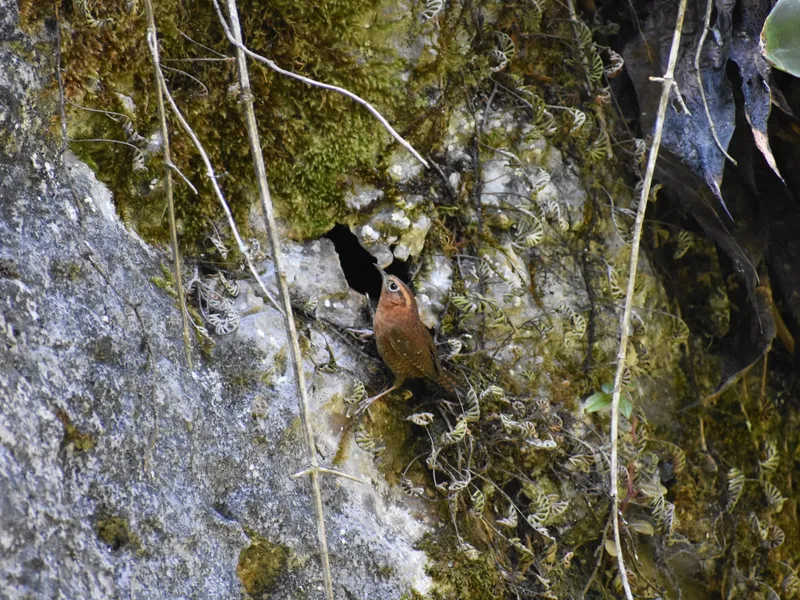
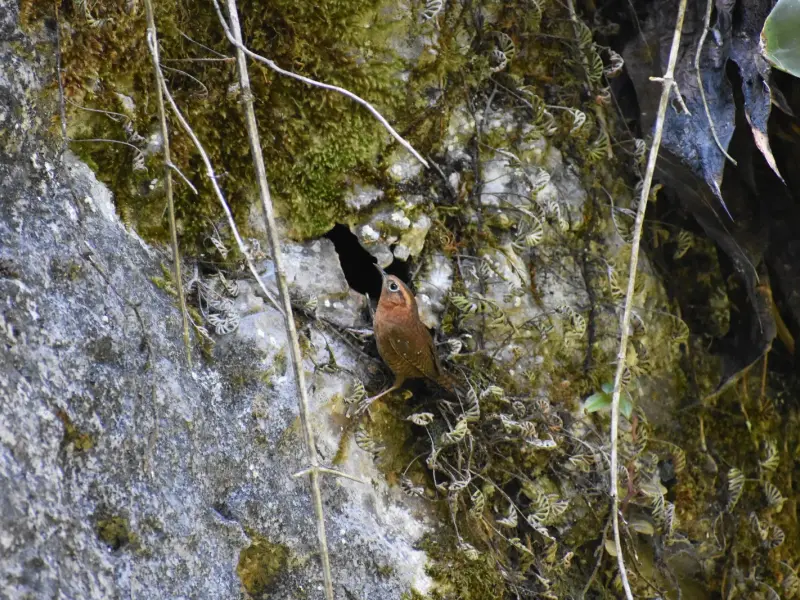
Stop the page moving when the fonts swap in
Self-hosting took the homepage from 73 to 88 and halved first paint, but it
introduced a layout shift: CLS went from 0 to 0.114. The cause is in the win.
`font-display: swap` paints text in a fallback the moment CSS lands and swaps
when the webfont arrives; the first paint is now fast enough that this happens
on screen rather than before it, and everything below the swapped text jumped.
PageSpeed named the culprits exactly — the hero buttons, then the stats band,
each attributed to a specific woff2.

Each webfont now has a metric-matched stand-in: same average character width,
same ascent and descent, so the swap changes the letterforms and nothing else.
Text still appears immediately, it just stops moving afterwards.

The size-adjust figures are calibrated against text widths measured in a
browser on real page copy rather than taken raw from the script. A lowercase
letter-frequency table left Lato 3% out once capitals, digits and punctuation
were in the sample — and overshooting is no better than undershooting, since
either way the line count can change.

The homepage logo is sized too. It was the other half of the largest shift:
unsized and lazy, so the caption under it moved when the file arrived.

Separately, 21 card and thumb crops are re-encoded, saving 440KB. Across 169 of
them the median is 0.082 bytes per pixel; these sat between 0.20 and 0.29 —
busy frames of cloud forest and dappled trail where the encoder spent freely.
[…]

diff --git a/src/lib/styles/global.css b/src/lib/styles/global.css
@@ -76,6 +76,53 @@
 	src: url('../fonts/jetbrains-mono-500.woff2') format('woff2');
 }
 
+/**
+ * Metric-matched stand-ins, generated by scripts/font-metrics.py.
+ *
+ * With `font-display: swap` the browser paints text in a fallback the instant
+ * CSS lands, then swaps when the webfont arrives. Self-hosting made the first
+ * paint fast enough that this began happening on screen rather than before it,
+ * and everything below the swapped text jumped: CLS went from 0 to 0.114.
+ *
+ * These rules make each stand-in a dimensional twin of the font it covers —
+ * same average character width, same ascent and descent — so the swap changes
+ * the shapes and nothing else. Text still appears immediately; it just stops
+ * moving afterwards.
+ *
+ * Arial's metrics are shared by Helvetica and Liberation Sans, so the one
+ * calculation holds on macOS and Linux as well as Windows.
+ *
+ * The size-adjust figures are calibrated against text widths measured in a
+ * browser on real page copy, not taken raw from the script: a lowercase
+ * letter-frequency table left Lato 3% out once capitals, digits and
+ * punctuation were in the sample. Re-measure if the body copy changes
+ * character noticeably.
+ */
+@font-face {
+	font-family: 'Newsreader Fallback';
+	src: local('Georgia');
+	size-adjust: 93.82%;
+	ascent-override: 78.35%;
+	descent-override: 28.24%;
+	line-gap-override: 0%;
+}
+@font-face {
+	font-family: 'Lato Fallback';
+	src: local('Arial');
+	size-adjust: 101.29%;
+	ascent-override: 97.44%;
+	descent-override: 21.02%;
+	line-gap-override: 0%;
+}
+@font-face {
+	font-family: 'JetBrains Mono Fallback';
+	src: local('Courier New');
+	size-adjust: 99.98%;
+	ascent-override: 102.02%;
+	descent-override: 30%;
+	line-gap-override: 0%;
+}
+
 /* Design tokens ported verbatim from the live cardellina.com build. */
 :root {
 	--ink: #16241f; /* cloud-forest shade, near-black green */
@@ -94,9 +141,9 @@
 	--lichen: #a8762f; /* endemic flag */
 	--rule: #d9ddd5;
 
-	--display: 'Newsreader', Georgia, serif;
-	--body: 'Lato', -apple-system, BlinkMacSystemFont, 'Segoe UI', sans-serif;
-	--mono: 'JetBrains Mono', ui-monospace, Menlo, monospace;
+	--display: 'Newsreader', 'Newsreader Fallback', Georgia, serif;
+	--body: 'Lato', 'Lato Fallback', -apple-system, BlinkMacSystemFont, 'Segoe UI', sans-serif;
+	--mono: 'JetBrains Mono', 'JetBrains Mono Fallback', ui-monospace, Menlo, monospace;
 
 	/* Height of the sticky site header. Anything else that sticks (the bird
 	   library's filter bar) offsets by this so it doesn't slide underneath. */

diff --git a/src/routes/+page.svelte b/src/routes/+page.svelte
@@ -279,9 +279,14 @@
 	<div class="wrap">
 		<div class="genus-grid">
 			<figure class="genus-mark">
+				<!-- Sized so the browser reserves the space before the file arrives.
+				     Without these the caption and everything under it jumped when the
+				     logo loaded, which was most of one of the layout shifts. -->
 				<img
 					src={asset('images/cardellina-logo-r-ouLe0QMSi7BFi1G9-thumb.webp')}
 					alt="The Cardellina Birding Tours logo: three Cardellina warblers"
+					width="420"
+					height="420"
 					loading="lazy"
 				/>
 				<figcaption>Red Warbler · Red-faced Warbler · Pink-headed Warbler</figcaption>

diff --git a/scripts/font-metrics.py b/scripts/font-metrics.py
@@ -1,0 +1,90 @@
+"""
+Computes @font-face override values so the fallback font occupies exactly the
+same space as the webfont it stands in for.
+
+Why this exists: with `font-display: swap` the browser paints text immediately
+in a fallback, then swaps when the real font arrives. If the two have different
+metrics, everything below the swapped text jumps — which is what took CLS from
+0 to 0.114 the moment the fonts became self-hosted and fast enough to paint
+before they landed.
+
+The overrides make the stand-in a dimensional twin of the real thing:
+
+  size-adjust        scales the fallback so its average character is the same
+                     width, which is what stops lines re-wrapping
+  ascent-override    fixes the space above the baseline
+  descent-override   the space below it
+  line-gap-override  the leading between lines
+
+Run: python scripts/font-metrics.py
+Then paste the printed rules into src/lib/styles/global.css.
+"""
+
+import sys
+from fontTools.ttLib import TTFont
+
+WIN = 'C:/Windows/Fonts/'
+
+# Each webfont, and the font actually standing in for it while it loads — which
+# must be the first entry in that stack's fallback list, or the numbers describe
+# a font nobody sees. Arial's metrics are shared by Helvetica and Liberation
+# Sans, so one calculation covers macOS and Linux too.
+PAIRS = [
+    ('Newsreader', 'src/lib/fonts/newsreader-400.woff2', WIN + 'georgia.ttf', 'Georgia'),
+    ('Lato', 'src/lib/fonts/lato-400.woff2', WIN + 'arial.ttf', 'Arial'),
+    ('JetBrains Mono', 'src/lib/fonts/jetbrains-mono-400.woff2', WIN + 'cour.ttf', 'Courier New'),
+]
+
+# Weighted by how often each letter appears in English, so the average width
+# reflects real prose rather than treating 'z' as equal to 'e'.
+FREQ = {
+    'a': 8.17, 'b': 1.49, 'c': 2.78, 'd': 4.25, 'e': 12.70, 'f': 2.23, 'g': 2.02,
+    'h': 6.09, 'i': 6.97, 'j': 0.15, 'k': 0.77, 'l': 4.03, 'm': 2.41, 'n': 6.75,
+    'o': 7.51, 'p': 1.93, 'q': 0.10, 'r': 5.99, 's': 6.33, 't': 9.06, 'u': 2.76,
+    'v': 0.98, 'w': 2.36, 'x': 0.15, 'y': 1.97, 'z': 0.07, ' ': 17.0,
+}
+
+
+def avg_width(font):
+    """Frequency-weighted mean advance width, in em units."""
+    upem = font['head'].unitsPerEm
+    cmap = font.getBestCmap()
+    hmtx = font['hmtx']
+    total = weight = 0.0
+    for ch, f in FREQ.items():
+        name = cmap.get(ord(ch))
+        if not name:
+            continue
+        total += hmtx[name][0] / upem * f
+        weight += f
+    return total / weight
+
+
+print('/* Generated by scripts/font-metrics.py — see that file for the why. */')
+for family, real_path, fb_path, fb_name in PAIRS:
+    try:
+        real = TTFont(real_path)
+        fb = TTFont(fb_path)
+    except Exception as e:  # noqa: BLE001
+        print(f'/* skipped {family}: {e} */', file=sys.stderr)
+        continue
+
+    adjust = avg_width(real) / avg_width(fb)
+
+    upem = real['head'].unitsPerEm
+    hhea = real['hhea']
+    # Divided by the size adjustment because the overrides are applied to the
+    # already-scaled fallback, not to the original.
+    asc = hhea.ascent / upem / adjust
+    desc = abs(hhea.descent) / upem / adjust
+    gap = hhea.lineGap / upem / adjust
+
+    print(f"""
+@font-face {{
+	font-family: '{family} Fallback';
+	src: local('{fb_name}');
+	size-adjust: {adjust * 100:.2f}%;
+	ascent-override: {asc * 100:.2f}%;
+	descent-override: {desc * 100:.2f}%;
+	line-gap-override: {gap * 100:.2f}%;
+}}""")
